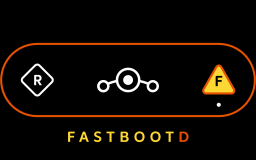
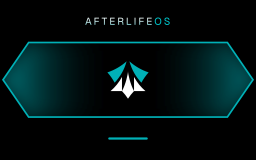
recovery_ui: Adapt images for AfterlifeOS

diff --git a/recovery_ui/screen_ui.cpp b/recovery_ui/screen_ui.cpp
@@ -593,15 +593,15 @@ void ScreenRecoveryUI::SetColor(UIElement e) const {
       break;
     case UIElement::INFO:
       if (fastbootd_logo_enabled_)
-        gr_color(0xfd, 0xd8, 0x35, 255);
-      else
-        gr_color(0xf8, 0x90, 0xff, 255);
+       gr_color(0x22, 0x7b, 0xf6, 255);
+    else
+       gr_color(0, 191, 255, 255);
       break;
     case UIElement::HEADER:
       if (fastbootd_logo_enabled_)
-        gr_color(0xfd, 0xd8,0x35, 255);
-      else
-        gr_color(0xf8, 0x90, 0xff, 255);
+       gr_color(0x22, 0x7b, 0xf6, 255);
+    else
+       gr_color(0, 191, 255, 255);
       break;
     case UIElement::MENU:
       gr_color(0xd8, 0xd8, 0xd8, 255);
@@ -609,9 +609,9 @@ void ScreenRecoveryUI::SetColor(UIElement e) const {
     case UIElement::MENU_SEL_BG:
     case UIElement::SCROLLBAR:
       if (fastbootd_logo_enabled_)
-        gr_color(0xe6, 0x51, 0x00, 255);
-      else
-        gr_color(0x7c, 0x4d, 0xff, 255);
+       gr_color(0x22, 0x7b, 0xf6, 255);
+    else
+       gr_color(0, 72, 190, 255);
       break;
     case UIElement::MENU_SEL_BG_ACTIVE:
       gr_color(0, 156, 100, 255);
